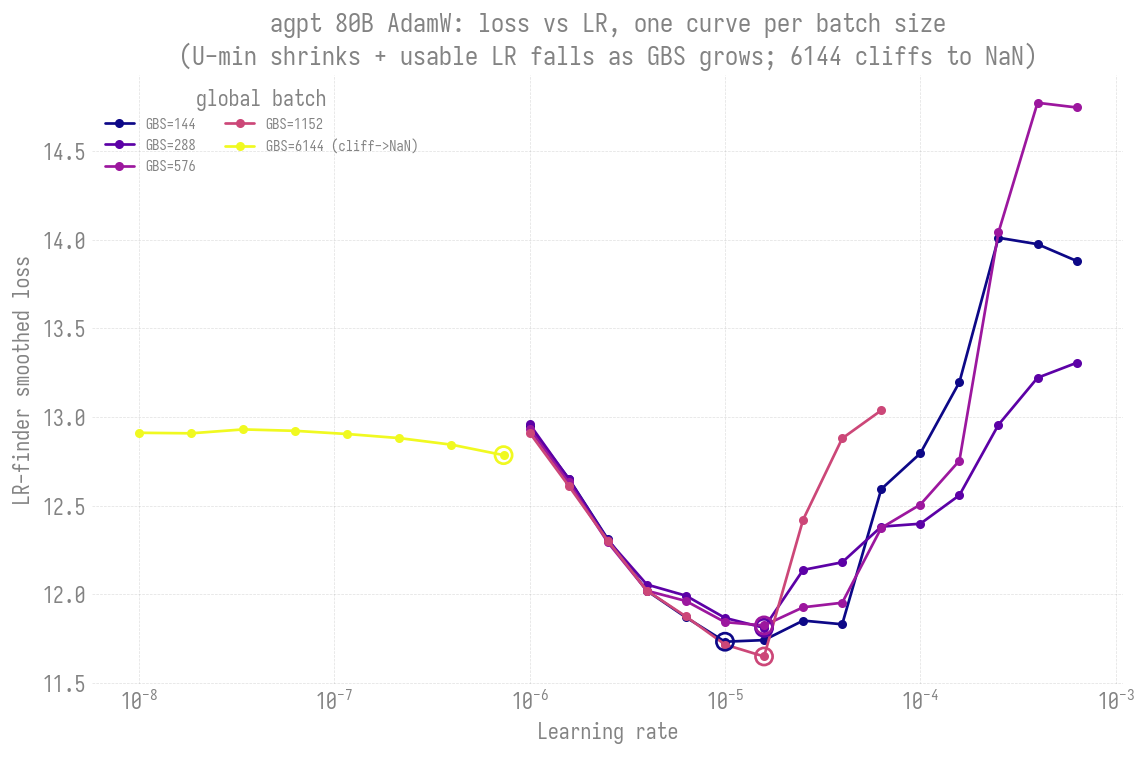
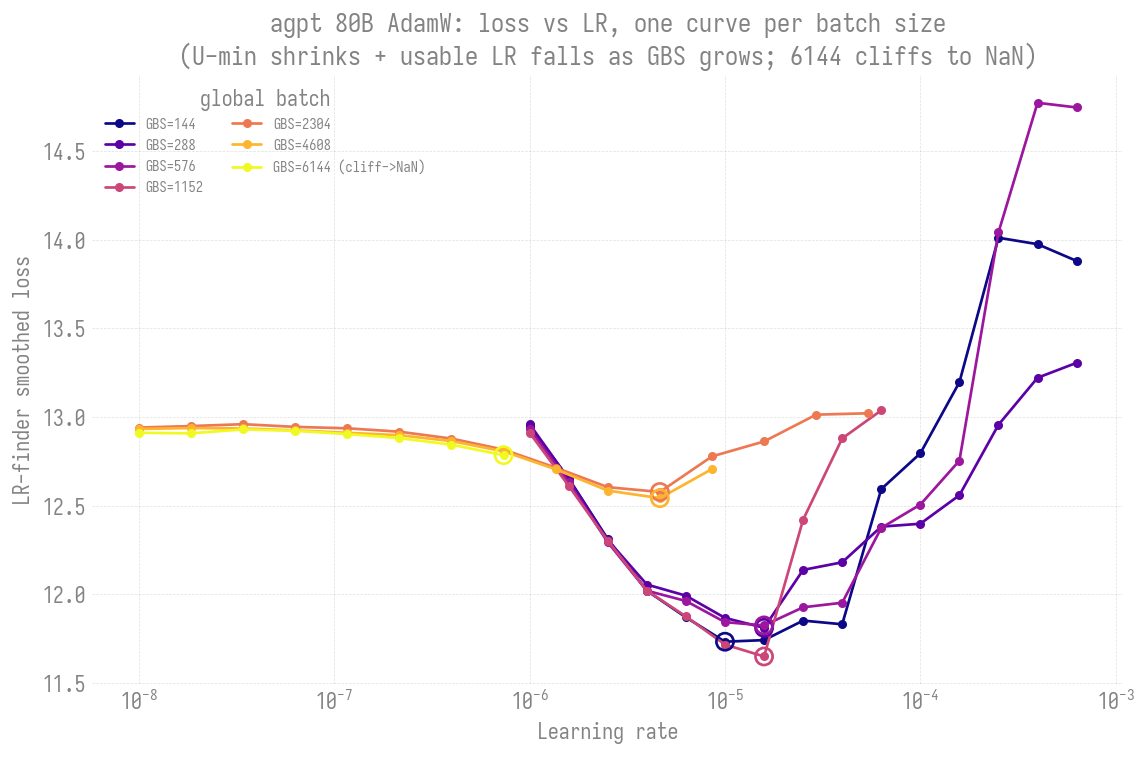
docs(ezpz/lr-finder/80b): complete the LR-ceiling-vs-GBS trend (gap-fill landed)
The 1152/2304/4608 gap-fill reruns finished (64N/dp=192, clean 15/15 0-NaN),
so the 80B AdamW trend is now complete -- no more "rerun queued" placeholders.

Final trend: usable LR flat ~1.5e-5 (GBS 144-1152) -> ~4.6e-6 shoulder
(2304/4608, still clean U-min) -> ~7.4e-7 NaN cliff (6144). The original
GBS=2304 partial (11/15, "11.24 basin") is superseded by the clean 64N rerun
(min-LR 4.6e-6, loss 12.58).

- plot_lr_trend.py: 80B ceiling points updated to the complete 7-point set.
- 80b/README.md: table filled (1152/2304/4608 real values), "Reading the
  trend" + caveat rewritten from in-progress to final.
- regenerated ceiling-vs-GBS, per-GBS-family, and 2B-vs-80B overlay figures.
- agpt/README.md: 2B trend note "in progress" -> "never cliffs" (it completed).

20B trend still mid-flight (per-opt jobs running); its figures/page come when
the cells land.

diff --git a/torchtitan/experiments/ezpz/scripts/plot_lr_trend.py b/torchtitan/experiments/ezpz/scripts/plot_lr_trend.py
@@ -304,9 +304,13 @@ def plot_ceiling_overlay_2b_vs_80b(out: Path) -> None:
 
 
 def plot_80b_ceiling_vs_gbs(out: Path) -> None:
-    # adamw 80B trend: (gbs, min/usable LR, min loss, shape)
+    # adamw 80B trend: (gbs, min/usable LR, min loss, shape). Complete after
+    # the 1152/2304/4608 gap-fill reruns landed (2026-06-28): clean U-min
+    # holds ~1.5e-5 through 1152, eases to ~4.6e-6 at 2304/4608 (the
+    # pre-cliff shoulder), then collapses to the ~7.4e-7 NaN cliff at 6144.
     pts = [(144, 1.0e-5, 11.73, "U"), (288, 1.585e-5, 11.81, "U"),
-           (576, 1.585e-5, 11.83, "U"), (2304, 4.394e-6, 11.24, "partial"),
+           (576, 1.585e-5, 11.83, "U"), (1152, 1.585e-5, 11.65, "U"),
+           (2304, 4.642e-6, 12.58, "U"), (4608, 4.642e-6, 12.54, "U"),
            (6144, 7.4e-7, 12.78, "cliff")]
     fig, (ax1, ax2) = plt.subplots(1, 2, figsize=(13, 5))
     for g, lr, _, sh in pts:

diff --git a/torchtitan/experiments/ezpz/docs/experiments/lr-finder/agpt/80b/README.md b/torchtitan/experiments/ezpz/docs/experiments/lr-finder/agpt/80b/README.md
@@ -150,9 +150,9 @@ NaN cliff with no minimum at all:
 | 144  | 8  | 1.0e-5  | 11.73 | 1e-6 -> 1e-3 (15/15) | clean U-min |
 | 288  | 8  | 1.6e-5  | 11.81 | 1e-6 -> 1e-3 (15/15) | clean U-min |
 | 576  | 8  | 1.6e-5  | 11.83 | 1e-6 -> 1e-3 (15/15) | clean U-min |
-| 1152 | -- | (rerun queued) | -- | -- | -- |
-| 2304 | 16 | ~4.4e-6 | 11.24 | 1e-6 -> 1e-3 (11/15) | soft/noisy basin |
-| 4608 | -- | (rerun queued) | -- | -- | -- |
+| 1152 | 64 | 1.6e-5  | 11.65 | 1e-6 -> 1e-3 (15/15) | clean U-min |
+| 2304 | 64 | 4.6e-6  | 12.58 | 1e-8 -> 1e-4 (15/15) | U-min (pre-cliff shoulder) |
+| 4608 | 64 | 4.6e-6  | 12.54 | 1e-8 -> 1e-4 (15/15) | U-min (pre-cliff shoulder) |
 | 6144 | 64 | ~7.4e-7 | 12.78 | 1e-8 -> 1e-4 (15/15) | **NaN cliff (no min)** |
 
 Reading the trend:
@@ -163,21 +163,21 @@ Reading the trend:
   cleanly with a real loss minimum in-range; the production batch has *no*
   minimum -- loss descends to a wall and NaNs (the "usable LR" there is a
   ceiling, not a U-bottom).
-- **The transition is gradual.** GBS=2304 already shows a soft, noisy basin
-  (loss flat 11.2-11.6 across lr 4e-6..2e-5, grad_norm bouncing 13-85) rather
-  than either a clean U or a sharp cliff -- the edge sharpens somewhere
-  between GBS=2304 and 6144.
-- **Min-loss is non-monotonic** (right panel): it improves slightly to the
-  GBS=2304 basin (11.24) then jumps up at the cliff (12.78) -- once divergence
-  caps the LR, the 15-step sweep simply can't descend as far.
+- **The plateau holds, then steps down before the cliff.** Usable LR is flat
+  at ~1.5e-5 through GBS=1152, eases to ~4.6e-6 at GBS=2304 and 4608 (a clean
+  U-min "shoulder", still 0 NaN), then collapses to the ~7.4e-7 NaN cliff at
+  6144. The 2304/4608 shoulder is the last clean-U stage before divergence
+  swallows the minimum.
+- **Min-loss is non-monotonic** (right panel): nearly flat (~11.7-11.8)
+  through 1152, then steps up to ~12.5-12.6 at the 2304/4608 shoulder and
+  ~12.78 at the cliff -- once the usable LR drops, the 15-step sweep can't
+  descend as far.
 
-**Caveats (this is in progress):** GBS=1152/2304/4608 are being re-run at 64N
-(jobs 12469765-767) -- the first 2304 attempt reached only step 11/15 (6h
-walltime) and the first 4608 attempt produced 0 points (the auto-retry
-watchdog fired mid-step-1: at 16N/dp=48 the GAS=96 step exceeded the 1800s
-no-output timeout). The reruns use dp=192 (GAS 6/12/24, fast steps) and a
-2400s watchdog. The figure + table will be refreshed when they land; the
-8N small-GBS points and the 6144 cliff are final.
+All seven points are final (15/15, 0 NaN except the 6144 cliff). The
+1152/2304/4608 points were re-run at 64N/dp=192 after the first attempts hit
+walltime/watchdog limits at 16N; the original GBS=2304 partial (11/15, the
+"11.24" basin reported earlier) was superseded by the clean 64N rerun
+(min-LR 4.6e-6, loss 12.58).
 
 A 2B reproduction of this same trend (16N, dp=192, GBS 192..24576) is running
 -- see [agpt 2B](../2b/README.md).

diff --git a/torchtitan/experiments/ezpz/docs/experiments/lr-finder/agpt/README.md b/torchtitan/experiments/ezpz/docs/experiments/lr-finder/agpt/README.md
@@ -4,7 +4,7 @@ Learning-rate-finder results for the dense **agpt** (AuroraGPT) models. This
 page is the cross-model index (master recommended-LR table + findings that
 span model sizes / machines). Per-model detail lives in its own page:
 
-- **[agpt 2B](2b/README.md)** -- small-batch finders + production-batch trend (in progress)
+- **[agpt 2B](2b/README.md)** -- small-batch finders + production-batch trend (never cliffs)
 - **[agpt 20B](20b/README.md)** -- small-batch finders (no trend yet)
 - **[agpt 80B](80b/README.md)** -- GBS=192 finder, GBS=6144 production batch, LR-ceiling-vs-GBS trend
 
